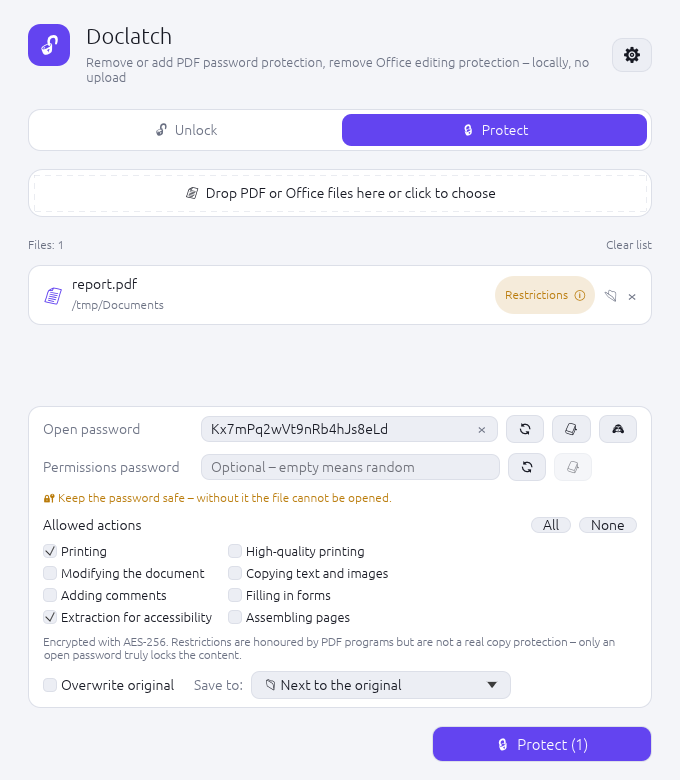
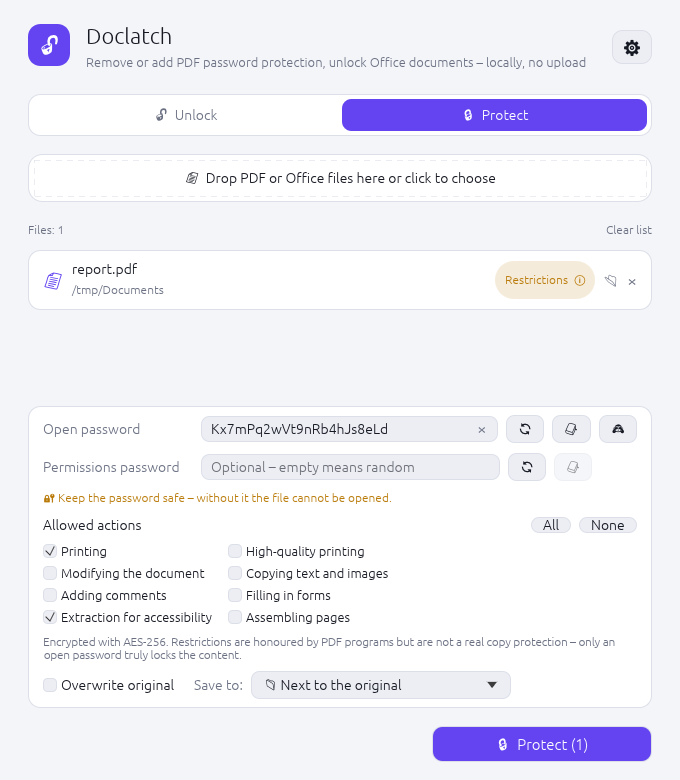
Prepare version 0.2.0

diff --git a/CHANGELOG.md b/CHANGELOG.md
@@ -4,7 +4,7 @@ All notable changes to Doclatch are listed here. The format follows
 [Keep a Changelog](https://keepachangelog.com/en/1.1.0/); version numbers follow
 [Semantic Versioning](https://semver.org/).
 
-## [Unreleased]
+## [0.2.0] – unreleased
 
 ### Added
 
@@ -50,5 +50,5 @@ First release: removes and adds password protection and permission restrictions 
 (RC4 40/128-bit, AES-128, AES-256), graphical interface in 11 languages and command line,
 optional update check.
 
-[Unreleased]: https://github.com/Paderman/doclatch/compare/v0.1.0...HEAD
+[0.2.0]: https://github.com/Paderman/doclatch/compare/v0.1.0...HEAD
 [0.1.0]: https://github.com/Paderman/doclatch/releases/tag/v0.1.0
